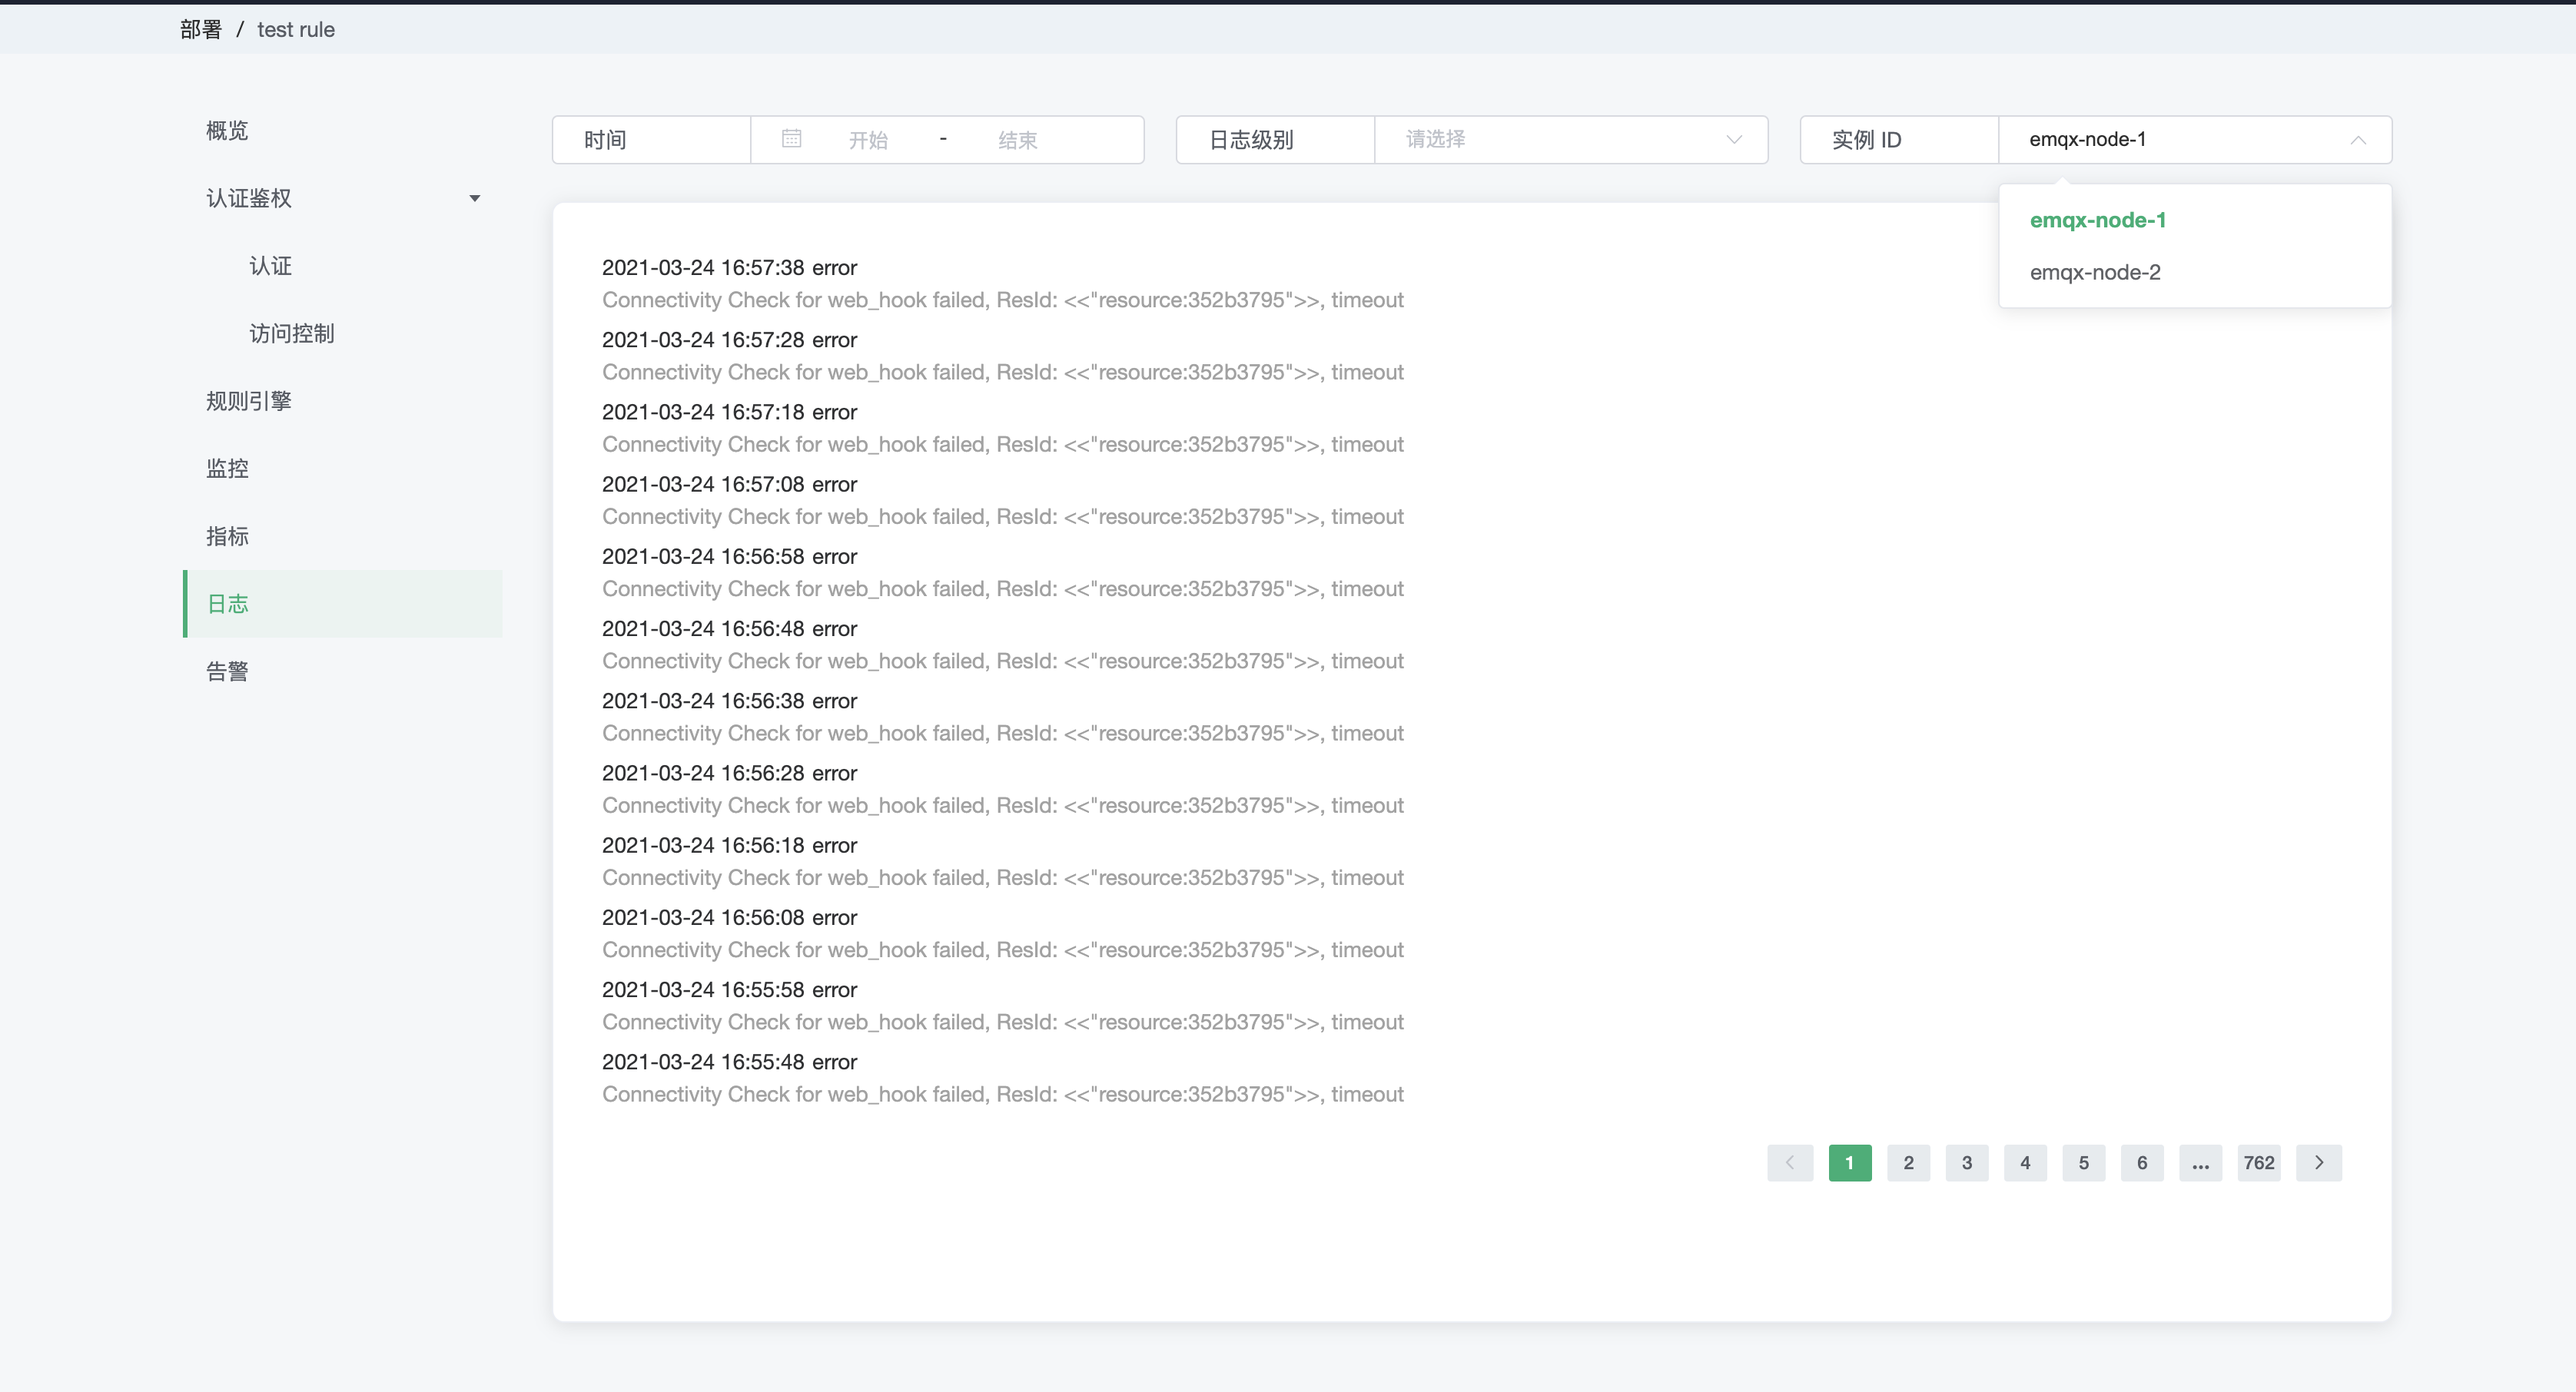
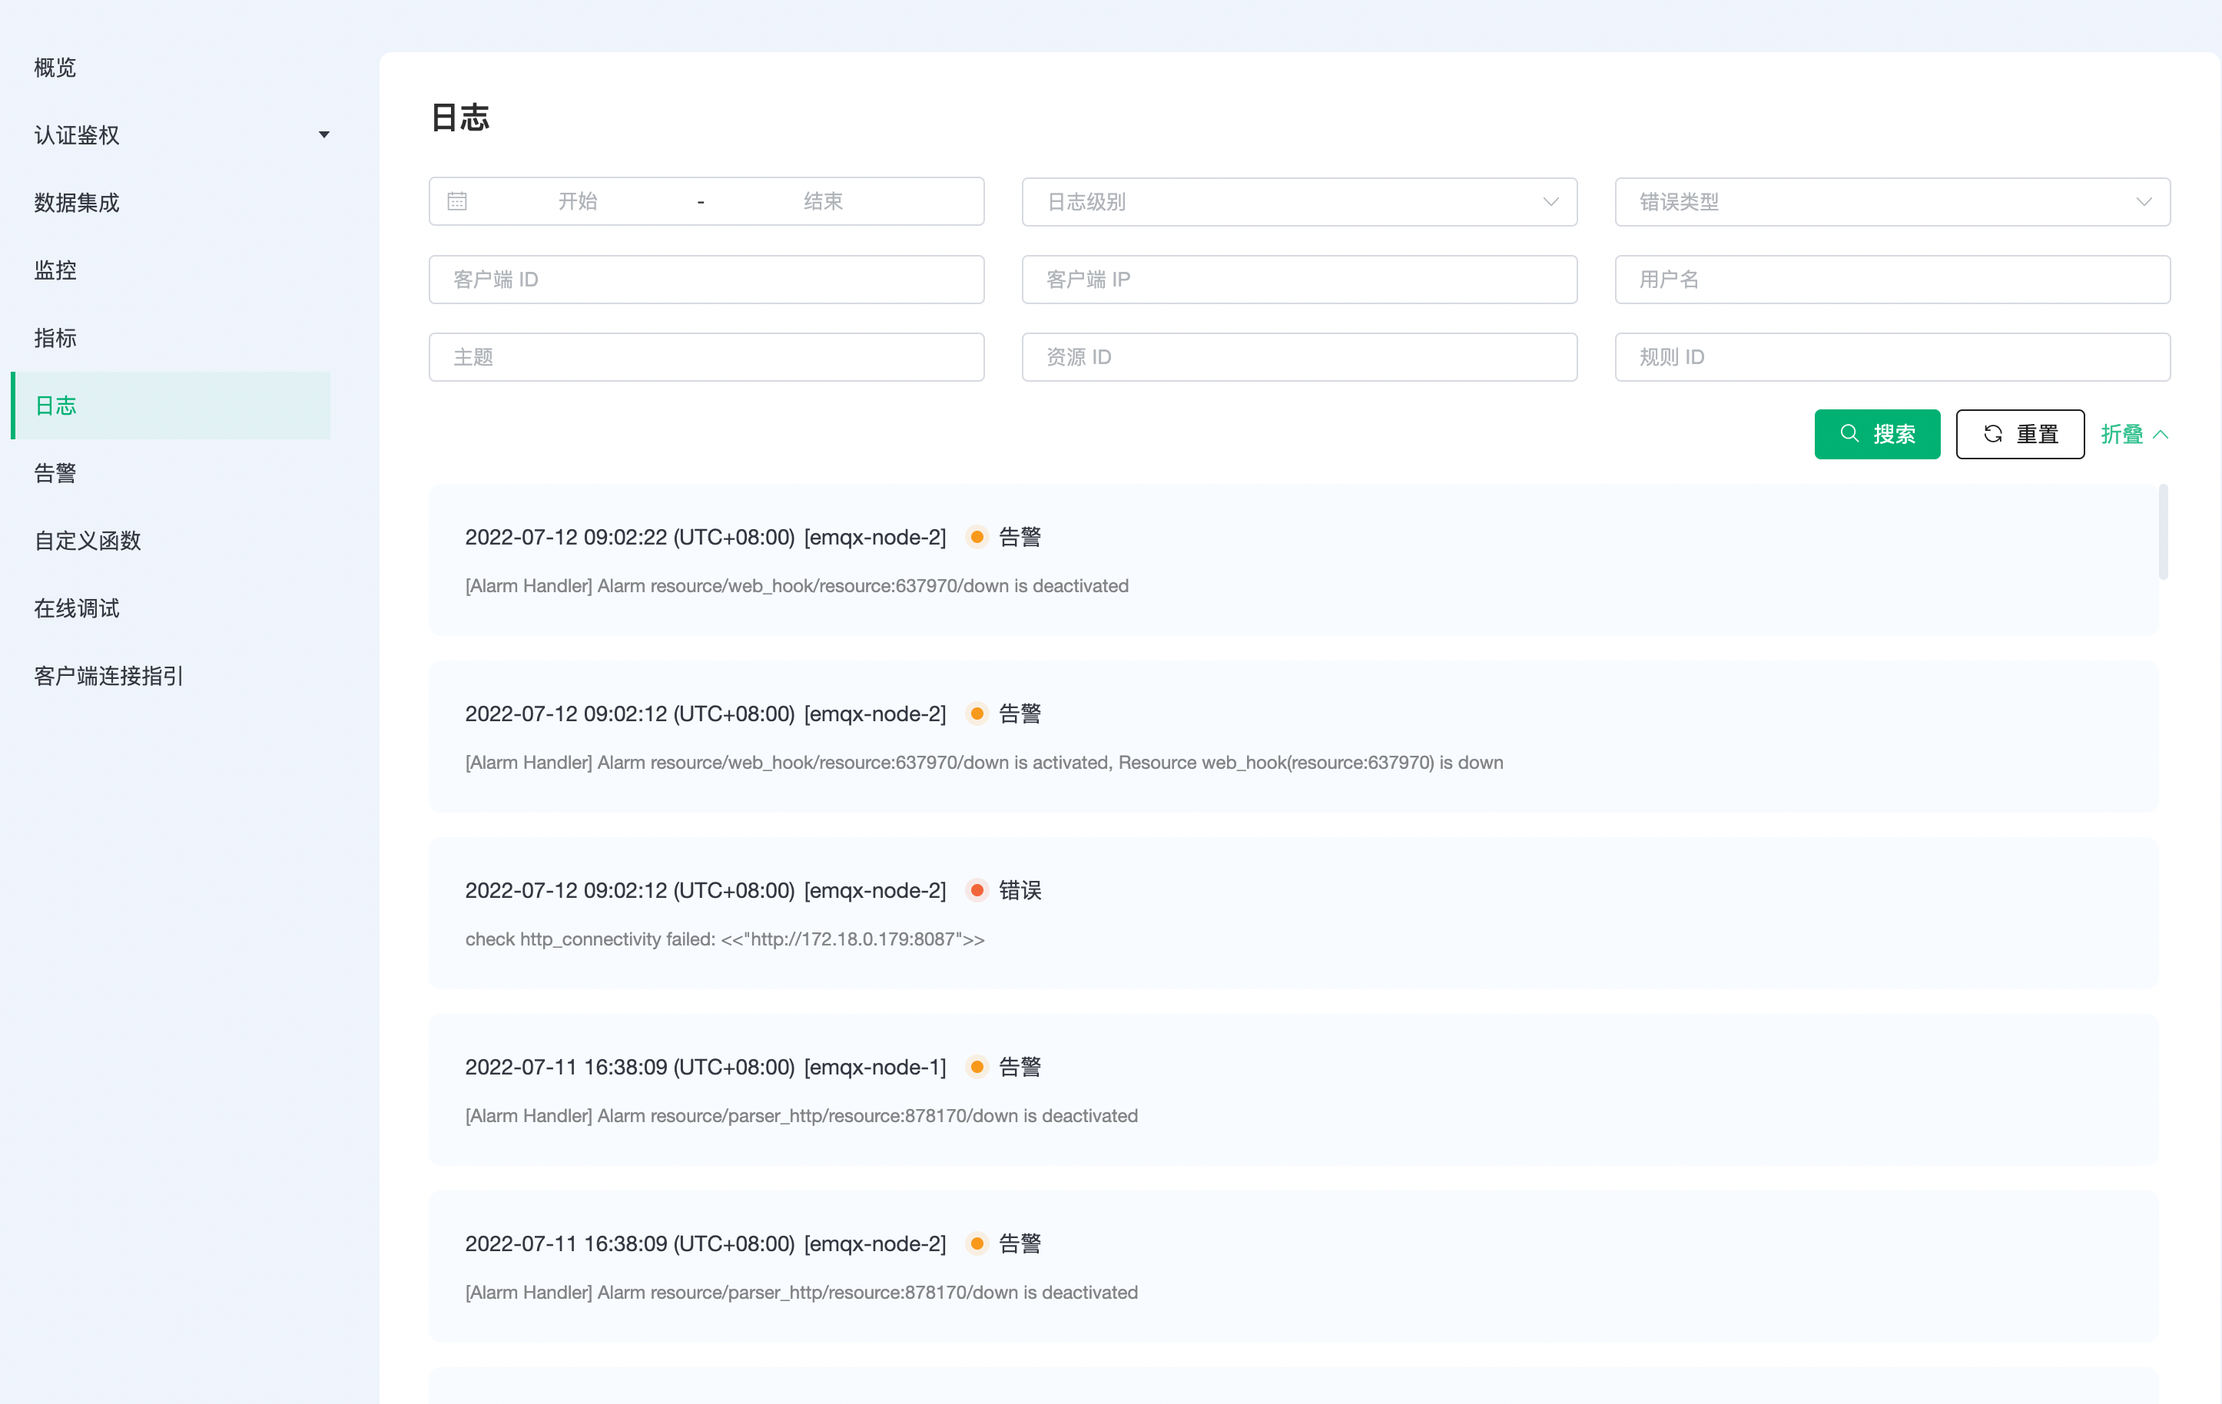
feat(docs): update logs of docs

diff --git a/en_US/deployments/logs.md b/en_US/deployments/logs.md
@@ -1,12 +1,154 @@
 # Logs
 
-EMQX Cloud provides real-time online viewing of EMQX logs
-
-
+EMQX Cloud provides real-time online viewing of EMQX logs.
 
 ## View Deployment Logs
 
-Click on the log page to jump to the deployment logs page, where you can view the deployment logs related messages
+Logs analysis reconfigures the ability to parse and search for logs, providing two EMQX nodes [emqx-node-1], [emqx-node-2] with multiple levels of log information, including ClientID, ClientIP, Username, Topic, Resource, and Rule ID, as well as filtering by error type.
+
+**Data Integration**: Data integration related errors. Errors caused by the corresponding service not running or other reasons. For example, MySQL is not running when storing to MySQL, unauthorized, or table errors, etc.
+
+**Client**: Client-related errors, including incorrect authentication information, incorrect access control information, and other reasons for not being able to connect.
+
+**Message**: Message-related errors, such as encoding problems, message loss and abandonment, etc.
+
+**Module**: emqx module related errors, such as custom authentication errors due to inability to connect to the corresponding service.
+
+**EMQX Internal Errors**: Erlang and errors that cannot be classified to the above cases.
 
 ![view_log](./_assets/logs.png)
 
+## Common Logs Analysis
+
+### Client authentication failed (warning)
+
+* Log
+```
+[Channel] Client xxx (Username: 'xxx') login failed for not_authorized
+```
+
+* Solution
+```
+Check that client authentication is correctly configured.
+```
+
+### Client ACL authentication failed (warning)
+
+* Log
+```
+[Channel] Cannot publish message to xxx due to Not authorized.
+```
+
+* Solution
+```
+Check that the deployment ACL is configured correctly
+```
+
+### Non-standard MQTT protocol connections (warning)
+
+* Log
+```
+[MQTT] Parse failed for function_clause[{emqx_frame,parse_packet,[{mqtt_packet_header,4,false,3,true}
+```
+
+* Solution
+```
+Check that the MQTT protocol used by the client connection is the standard MQTT protocol
+```
+
+### Message drop alerts (warnings)
+
+* Log
+```
+Dropped msg due to queue is full: Message(Id=xxx, QoS=1, Topic=xxx)
+```
+
+* Solution
+```
+The client sets clean session to False or the client sets automatic reconnection.
+```
+
+### TPS over limit alarm (warning)
+
+* Log
+```
+[Channel] Cannot publish messages to /acp_player/heartbeat due to Quota exceeded.
+```
+
+* Solution
+```
+Timely adjustment of the client sending rate so that the sending rate is less than the TPS of the deployment limit
+```
+
+### Data Integration MySQL Resource Exception (error)
+
+* Log
+```
+Initiate 'mysql:resource:7aba6137' failed {{shutdown,{failed_to_start_child,worker_sup,{shutdown,{failed_to_start_child,{worker,1},timeout}}}},{child,undefined,{pool_sup,'mysql:resource:7aba6137'}
+```
+
+* Solution
+```
+Checking MySQL Resources in Data Integration
+```
+
+
+### Data Integration Webhook Resource Exception (error)
+
+* Log
+```
+cluster_call error found, ResL: [{{emqx_web_hook_actions,on_resource_create},{error,{error,check_http_connectivity_failed}
+```
+
+* Solution
+```
+Checking Webhook resources in data integration
+```
+
+### Data Integration Webhook Status Exception (error)
+
+* Log
+```
+[WebHook Action] HTTP request failed with status code: 401
+```
+
+* Solution
+```
+Check that the authentication configured for the Webhook resource in the data integration is correctly available
+```
+
+### Data Integration Kafka Resource Exceptions (error)
+
+* Log
+```
+cluster_call error found, ResL: [{{emqx_bridge_kafka_actions,on_resource_create},{error,connect_kafka_server_fail,[{
+```
+
+* Solution
+```
+Checking the status of data integration Kafka resource for availability
+```
+
+### Data integration SQL template configuration error (error)
+
+* Log
+```
+[RuleEngine MySql] insert failed reason: {1406,<<"22001">>, <<"Data too long for column 'topic' at row 1">>}
+```
+
+* Solution
+```
+Check that the SQL for the rules in the data integration is written correctly
+```
+
+### Data integration response action failed (error)
+
+* Log
+```
+[RuleEngine MySql] Take action <<"data_to_mysql_1634029957602201470">> failed, continue next action, reason: {error,{data_to_xxx,
+```
+
+* Solution
+```
+Check that the action for the rule in the data integration is written correctly
+```

diff --git a/zh_CN/deployments/logs.md b/zh_CN/deployments/logs.md
@@ -1,16 +1,23 @@
 # 部署日志
 
-EMQX Cloud 提供实时在线查看 EMQX 日志功能
-
-
+EMQX Cloud 提供实时在线查看 EMQX 日志功能。
 
 ## 查看部署日志
 
-点击日志页面将跳转到部署日志页面，在这里可以查看部署日志相关消息。点击右上角选择不同节点，查看不同节点日志信息。
+日志分析重构了对于日志的解析和搜索能力，提供了 EMQX 两个节点 [emqx-node-1]
+、[emqx-node-2] 多个级别的日志信息，可从 ClientID，ClientIP，Username，Topic，资源以及规则 ID 多维度进行查找分析，还可以根据不同错误类型进行过滤筛选。
+
+**数据集成**：数据集成相关的错误。对应的服务没在运行或其它原因造成的错误。例如存储到 MySQL 时，MySQL 没在运行，未授权、或表错误等。
+
+**客户端**：客户端相关的错误，包含错误的认证信息，错误的访问控制信息，以及其它原因造成无法连接等。
+
+**消息**：消息相关的错误，例如编码问题、消息失弃等。
+
+**模块**：emqx 模块相关的错误, 例如自定义认证因无法连接到对应服务而产生的错误。
+
+**EMQX 内部错误**：Erlang 及无法分类到上述情况的错误。
 
 ![view_log](./_assets/logs.png)
-
-
 
 ## 常见日志分析
 
@@ -120,7 +127,7 @@ cluster_call error found, ResL: [{{emqx_bridge_kafka_actions,on_resource_create}
 
 * 处理
 ```
-部署数据集成 Kafka 资源异常
+检查部署数据集成中 Kafka 资源是否可用
 ```
 
 ### 数据集成 SQL 模板配置错误(error)
